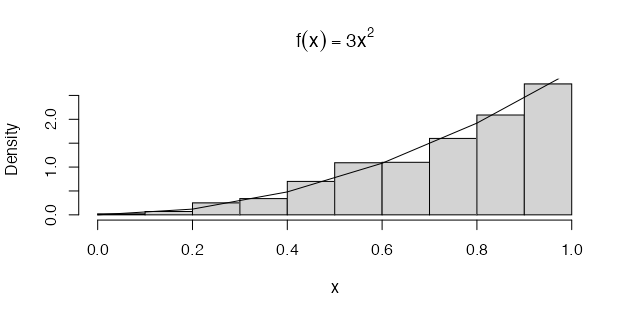
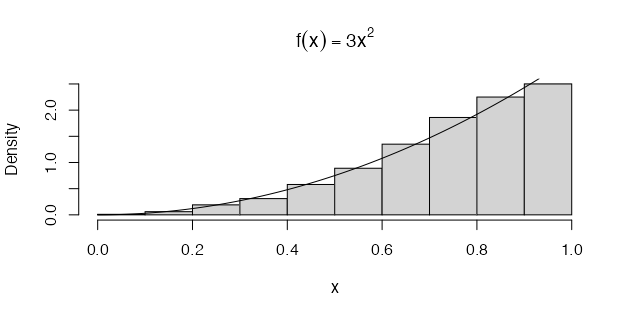
updated website

diff --git a/rambles.md b/rambles.md
@@ -39,7 +39,7 @@ n <- 1000
 u <- runif(n)
 x <- u ^ (1 / 3)
 hist(x, probability = TRUE, main = expression(f(x) == 3 * x ^ 2)) # density hist of sample
-y <- seq(0, 1, 0.1)
+y <- seq(0, 1, 0.01)
 lines(y, 3 * y ^ 2) # density curve f(x) 
 ```
 
@@ -57,7 +57,27 @@ The inverse transformation of the cdf is then
 
 $$F_{X}^{-1}(u) = -(\frac{1}{\lambda}) \times log(1 - u)$$
 
-Note that $$U$$ and $$1 - U$$ have the same distribution and it is simpler to set $$x = -(\frac{1}{\lambda}) \times log(u)$$ [1].
+Note that $$U$$ and $$1 - U$$ have the same distribution and it is simpler to set $$x = -(\frac{1}{\lambda}) \times log(u)$$ [1]. The code to generate To generate a random sample of size n with parameter $$\lambda$$ is shown below:
+
+```{r}
+n <- 1000
+lambda <- 0.5 # set lambda (mean) constant, i.e. E[X] = 1 / lambda
+x <- (-log(runif(n)) / lambda)
+hist(x, probability = TRUE, main = expression(
+ f(x) == lambda * e ^ {-lambda * x}))
+y <- seq(min(x), max(x), 0.1)
+lines(y, lambda * exp(-lambda * y)) # density curve f(x)
+```
+
+<p align="center">
+<img src="img/cdf_2.png" width="600" height="380"/>
+</p>
+
+The inverse transform method can also be applied to the discrete case. If $$X$$ is a discrete random variable and $$... < x_{i-1} < x_{i} < x_{i + 1} < ...$$ are the points of discontinuity of $$F_{X}(u)$$, then the inverse transformation is $$F_{X}^{-1}(u) = x_{i}$$, where $$F_{X}(x_{i - 1}) < u \leq F_{X}(x_{i})$$. So, for each random variate required, we need to:
+
+- 1. Generate a random $$u$$ from $$Uniform(0, 1)$$
+
+- 2. Deliver $$x_{i}$$ where $$F(x_{i - 1}) < u \leq F(x_{i})$$
 
 **References:**
 
